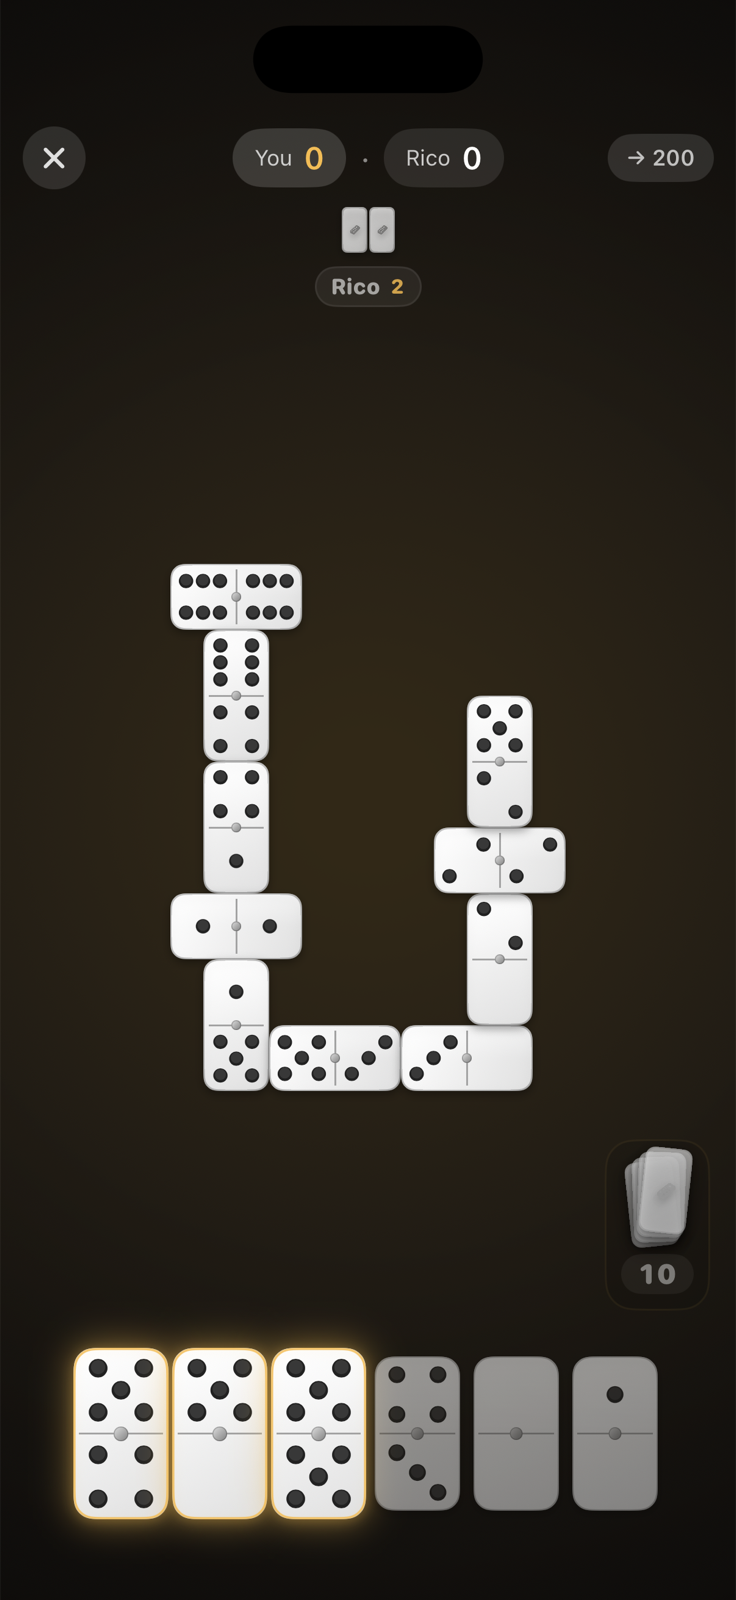
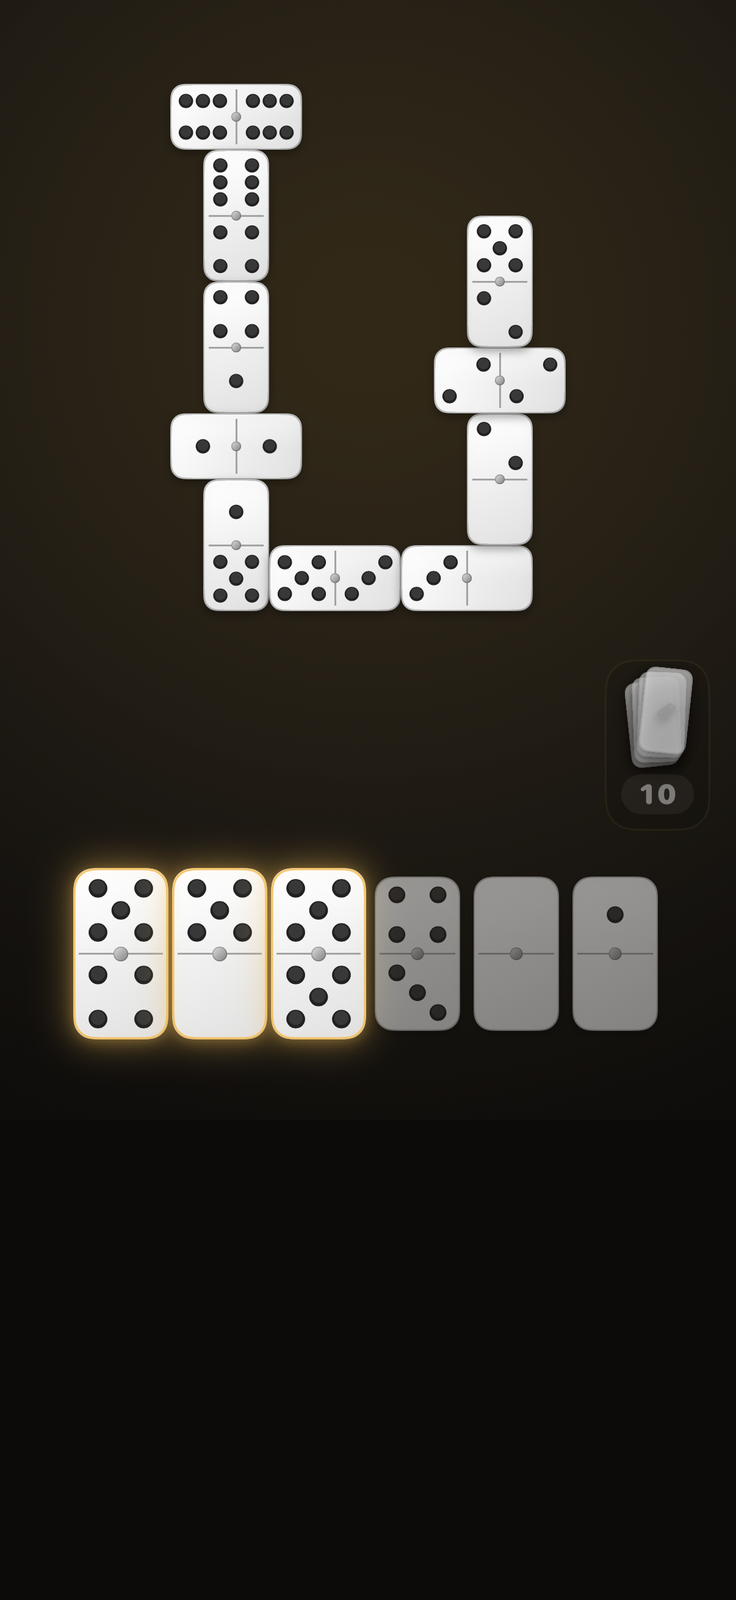
home: phones anchored under the headlines; the game shot's tiles arrive sooner
On a laptop-height window the panes shrink and the phones rose into the
words; they are anchored from the top now and only ever extend down. The
game screenshot's content is shifted up 30% inside its canvas so the cropped
phone shows tiles and the lit rack, not empty felt.

diff --git a/index.html b/index.html
@@ -14,25 +14,25 @@
     <meta property="og:title" content="Magic Domino™ — Keep the score. Play the game.">
     <meta property="og:description" content="The dominoes scorekeeper trusted at real tables, and a real domino game with the rules you grew up with. Two rooms, one app.">
     <meta property="og:url" content="https://magicdomino.com/">
-    <meta property="og:image" content="https://magicdomino.com/social-card.png?v=20260930d">
+    <meta property="og:image" content="https://magicdomino.com/social-card.png?v=20260930e">
     <meta property="og:image:width" content="1024">
     <meta property="og:image:height" content="500">
     <meta name="twitter:card" content="summary_large_image">
     <meta name="twitter:title" content="Magic Domino™ — Keep the score. Play the game.">
     <meta name="twitter:description" content="The dominoes scorekeeper trusted at real tables, and a real domino game with the rules you grew up with. Two rooms, one app.">
-    <meta name="twitter:image" content="https://magicdomino.com/social-card.png?v=20260930d">
+    <meta name="twitter:image" content="https://magicdomino.com/social-card.png?v=20260930e">
 
     <link rel="preconnect" href="https://fonts.googleapis.com">
     <link rel="preconnect" href="https://fonts.gstatic.com" crossorigin>
     <link href="https://fonts.googleapis.com/css2?family=Fraunces:ital,opsz,wght@0,9..144,400;0,9..144,500;0,9..144,600;0,9..144,700;0,9..144,800;1,9..144,500&family=Inter:wght@400;500;600;700&display=swap" rel="stylesheet">
-    <link rel="stylesheet" href="site.css?v=20260930d">
-    <script src="/i18n.js?v=20260930d"></script>
+    <link rel="stylesheet" href="site.css?v=20260930e">
+    <script src="/i18n.js?v=20260930e"></script>
 </head>
 <body>
 
     <nav class="navbar" id="navbar">
         <a href="index.html" class="navbar-brand">
-            <img src="app-icon.png?v=20260930d" alt="" class="brand-icon"><span>Magic Domino<span class="brand-tm">™</span></span>
+            <img src="app-icon.png?v=20260930e" alt="" class="brand-icon"><span>Magic Domino<span class="brand-tm">™</span></span>
         </a>
         <button class="mobile-menu-toggle" onclick="toggleMenu()" aria-label="Menu" data-i18n-attr="aria-label:a11y.menu">☰</button>
         <div class="navbar-links" id="navbarLinks">
@@ -60,7 +60,7 @@
                     <a class="pane-link" href="#score"><span data-i18n="hero.scoreLink">See the scorekeeper</span> <span aria-hidden="true">↓</span></a>
                 </div>
                 <!-- A real phone, showing the real scoreboard, rising out of the pane. -->
-                <figure class="mock mock-score" aria-hidden="true"><img src="hero-score.png?v=20260930d" alt="" width="736" height="1600"></figure>
+                <figure class="mock mock-score" aria-hidden="true"><img src="hero-score.png?v=20260930e" alt="" width="736" height="1600"></figure>
             </div>
 
             <div class="pane pane-play world-play">
@@ -71,11 +71,11 @@
                     <a class="pane-link" href="#play"><span data-i18n="hero.playLink">See the game</span> <span aria-hidden="true">↓</span></a>
                 </div>
                 <!-- A real phone, showing the table mid-hand. -->
-                <figure class="mock mock-play" aria-hidden="true"><img src="hero-play.png?v=20260930d" alt="" width="736" height="1600"></figure>
+                <figure class="mock mock-play" aria-hidden="true"><img src="hero-play.png?v=20260930e" alt="" width="736" height="1600"></figure>
             </div>
 
             <div class="hinge" aria-hidden="true">
-                <img src="app-icon.png?v=20260930d" alt="" class="hinge-icon">
+                <img src="app-icon.png?v=20260930e" alt="" class="hinge-icon">
                 <span class="hinge-label" data-i18n="hero.oneApp">One app</span>
             </div>
         </div>
@@ -163,19 +163,19 @@
                 <button class="scroll-arrow scroll-arrow-left" aria-label="Previous screenshots" data-i18n-attr="aria-label:a11y.prevShots" onclick="scrollStrip('scoreStrip', -1)">‹</button>
                 <div class="strip" id="scoreStrip">
                     <figure class="shot"><div class="shot-frame">
-                        <img src="shot-1.png?v=20260930d" alt="AI score counting with the camera" data-i18n-attr="alt:alt.shot1" data-missing onload="shotLoaded(this)" onerror="this.remove()">
+                        <img src="shot-1.png?v=20260930e" alt="AI score counting with the camera" data-i18n-attr="alt:alt.shot1" data-missing onload="shotLoaded(this)" onerror="this.remove()">
                         <div class="ph"><div><div class="ph-board"><span class="bar hi"></span><span class="bar"></span><span class="bar g"></span><span class="bar"></span></div><div class="ph-title" data-i18n="alt.shot1">AI score counting</div></div></div>
                     </div></figure>
                     <figure class="shot"><div class="shot-frame">
-                        <img src="shot-2.png?v=20260930d" alt="Scoreboard view" data-i18n-attr="alt:alt.shot2" data-missing onload="shotLoaded(this)" onerror="this.remove()">
+                        <img src="shot-2.png?v=20260930e" alt="Scoreboard view" data-i18n-attr="alt:alt.shot2" data-missing onload="shotLoaded(this)" onerror="this.remove()">
                         <div class="ph"><div><div class="ph-board"><span class="bar hi"></span><span class="bar"></span><span class="bar g"></span><span class="bar"></span></div><div class="ph-title" data-i18n="alt.shot2">Scoreboard</div></div></div>
                     </div></figure>
                     <figure class="shot"><div class="shot-frame">
-                        <img src="shot-3.png?v=20260930d" alt="Tournament bracket" data-i18n-attr="alt:alt.shot3" data-missing onload="shotLoaded(this)" onerror="this.remove()">
+                        <img src="shot-3.png?v=20260930e" alt="Tournament bracket" data-i18n-attr="alt:alt.shot3" data-missing onload="shotLoaded(this)" onerror="this.remove()">
                         <div class="ph"><div><div class="ph-board"><span class="bar hi"></span><span class="bar"></span><span class="bar g"></span><span class="bar"></span></div><div class="ph-title" data-i18n="alt.shot3">Tournament bracket</div></div></div>
                     </div></figure>
                     <figure class="shot"><div class="shot-frame">
-                        <img src="shot-4.png?v=20260930d" alt="Game history" data-i18n-attr="alt:alt.shot4" data-missing onload="shotLoaded(this)" onerror="this.remove()">
+                        <img src="shot-4.png?v=20260930e" alt="Game history" data-i18n-attr="alt:alt.shot4" data-missing onload="shotLoaded(this)" onerror="this.remove()">
                         <div class="ph"><div><div class="ph-board"><span class="bar hi"></span><span class="bar"></span><span class="bar g"></span><span class="bar"></span></div><div class="ph-title" data-i18n="alt.shot4">Game history</div></div></div>
                     </div></figure>
                 </div>
@@ -262,27 +262,27 @@
                 <button class="scroll-arrow scroll-arrow-left" aria-label="Previous screenshots" data-i18n-attr="aria-label:a11y.prevShots" onclick="scrollStrip('playStrip', -1)">‹</button>
                 <div class="strip" id="playStrip">
                     <figure class="shot"><div class="shot-frame">
-                        <img src="play-shot-1.png?v=20260930d" alt="The table" data-i18n-attr="alt:pshots.s1" data-missing onload="shotLoaded(this)" onerror="this.remove()">
+                        <img src="play-shot-1.png?v=20260930e" alt="The table" data-i18n-attr="alt:pshots.s1" data-missing onload="shotLoaded(this)" onerror="this.remove()">
                         <div class="ph"><div><div class="ph-mini"><div class="tile h"><div class="face p6"><i></i><i></i><i></i><i></i><i></i><i></i><i></i><i></i><i></i></div><div class="face p3"><i></i><i></i><i></i><i></i><i></i><i></i><i></i><i></i><i></i></div></div><div class="tile h just"><div class="face p3"><i></i><i></i><i></i><i></i><i></i><i></i><i></i><i></i><i></i></div><div class="face p1"><i></i><i></i><i></i><i></i><i></i><i></i><i></i><i></i><i></i></div></div></div><div class="ph-title" data-i18n="pshots.s1">The table</div></div></div>
                     </div></figure>
                     <figure class="shot"><div class="shot-frame">
-                        <img src="play-shot-2.png?v=20260930d" alt="The front door" data-i18n-attr="alt:pshots.s5" data-missing onload="shotLoaded(this)" onerror="this.remove()">
+                        <img src="play-shot-2.png?v=20260930e" alt="The front door" data-i18n-attr="alt:pshots.s5" data-missing onload="shotLoaded(this)" onerror="this.remove()">
                         <div class="ph"><div><div class="ph-mini"><div class="tile "><div class="face p6"><i></i><i></i><i></i><i></i><i></i><i></i><i></i><i></i><i></i></div><div class="face p6"><i></i><i></i><i></i><i></i><i></i><i></i><i></i><i></i><i></i></div></div><div class="tile "><div class="face p5"><i></i><i></i><i></i><i></i><i></i><i></i><i></i><i></i><i></i></div><div class="face p5"><i></i><i></i><i></i><i></i><i></i><i></i><i></i><i></i><i></i></div></div><div class="tile "><div class="face p4"><i></i><i></i><i></i><i></i><i></i><i></i><i></i><i></i><i></i></div><div class="face p4"><i></i><i></i><i></i><i></i><i></i><i></i><i></i><i></i><i></i></div></div></div><div class="ph-title" data-i18n="pshots.s5">The front door</div></div></div>
                     </div></figure>
                     <figure class="shot"><div class="shot-frame">
-                        <img src="play-shot-3.png?v=20260930d" alt="Pick your game" data-i18n-attr="alt:pshots.s2" data-missing onload="shotLoaded(this)" onerror="this.remove()">
+                        <img src="play-shot-3.png?v=20260930e" alt="Pick your game" data-i18n-attr="alt:pshots.s2" data-missing onload="shotLoaded(this)" onerror="this.remove()">
                         <div class="ph"><div><div class="ph-mini"><div class="tile "><div class="face p6"><i></i><i></i><i></i><i></i><i></i><i></i><i></i><i></i><i></i></div><div class="face p6"><i></i><i></i><i></i><i></i><i></i><i></i><i></i><i></i><i></i></div></div><div class="tile "><div class="face p5"><i></i><i></i><i></i><i></i><i></i><i></i><i></i><i></i><i></i></div><div class="face p5"><i></i><i></i><i></i><i></i><i></i><i></i><i></i><i></i><i></i></div></div><div class="tile "><div class="face p4"><i></i><i></i><i></i><i></i><i></i><i></i><i></i><i></i><i></i></div><div class="face p4"><i></i><i></i><i></i><i></i><i></i><i></i><i></i><i></i><i></i></div></div></div><div class="ph-title" data-i18n="pshots.s2">Pick your game</div></div></div>
                     </div></figure>
                     <figure class="shot"><div class="shot-frame">
-                        <img src="play-shot-4.png?v=20260930d" alt="Play together" data-i18n-attr="alt:pshots.s3" data-missing onload="shotLoaded(this)" onerror="this.remove()">
+                        <img src="play-shot-4.png?v=20260930e" alt="Play together" data-i18n-attr="alt:pshots.s3" data-missing onload="shotLoaded(this)" onerror="this.remove()">
                         <div class="ph"><div><div class="ph-mini"><div class="tile back"></div><div class="tile back"></div><div class="tile back"></div><div class="tile back"></div></div><div class="ph-title" data-i18n="pshots.s3">Play together</div></div></div>
                     </div></figure>
                     <figure class="shot"><div class="shot-frame">
-                        <img src="play-shot-5.png?v=20260930d" alt="The bracket" data-i18n-attr="alt:pshots.s4" data-missing onload="shotLoaded(this)" onerror="this.remove()">
+                        <img src="play-shot-5.png?v=20260930e" alt="The bracket" data-i18n-attr="alt:pshots.s4" data-missing onload="shotLoaded(this)" onerror="this.remove()">
                         <div class="ph"><div><div class="ph-mini"><div class="tile h"><div class="face p1"><i></i><i></i><i></i><i></i><i></i><i></i><i></i><i></i><i></i></div><div class="face p1"><i></i><i></i><i></i><i></i><i></i><i></i><i></i><i></i><i></i></div></div></div><div class="ph-title" data-i18n="pshots.s4">The bracket</div></div></div>
                     </div></figure>
                     <figure class="shot"><div class="shot-frame">
-                        <img src="play-shot-6.png?v=20260930d" alt="The hand is over" data-i18n-attr="alt:pshots.s6" data-missing onload="shotLoaded(this)" onerror="this.remove()">
+                        <img src="play-shot-6.png?v=20260930e" alt="The hand is over" data-i18n-attr="alt:pshots.s6" data-missing onload="shotLoaded(this)" onerror="this.remove()">
                         <div class="ph"><div><div class="ph-mini"><div class="tile h"><div class="face p0"><i></i><i></i><i></i><i></i><i></i><i></i><i></i><i></i><i></i></div><div class="face p0"><i></i><i></i><i></i><i></i><i></i><i></i><i></i><i></i><i></i></div></div></div><div class="ph-title" data-i18n="pshots.s6">The hand is over</div></div></div>
                     </div></figure>
                 </div>
@@ -306,7 +306,7 @@
                     <span class="tag" data-i18n="duo.tag">iPhone Duo · opened</span>
                 </div>
                 <figure class="duo-frame">
-                    <img src="duo-split.png?v=20260930d" alt="Magic Domino on an opened iPhone Duo: the scoreboard on the left half, a domino hand in play on the right" width="1800" height="1266" loading="lazy">
+                    <img src="duo-split.png?v=20260930e" alt="Magic Domino on an opened iPhone Duo: the scoreboard on the left half, a domino hand in play on the right" width="1800" height="1266" loading="lazy">
                 </figure>
             </div>
         </div>
@@ -392,7 +392,7 @@
 
     <footer>
         <a href="#top" class="footer-brand">
-            <img src="app-icon.png?v=20260930d" alt="" class="brand-icon"><span>Magic Domino<span class="brand-tm">™</span></span>
+            <img src="app-icon.png?v=20260930e" alt="" class="brand-icon"><span>Magic Domino<span class="brand-tm">™</span></span>
         </a>
         <div class="store-row footer-store">
             <a href="https://apps.apple.com/us/app/magic-domino-ai-scorekeeper/id6747228055" class="store-badge" aria-label="Download on the App Store">

diff --git a/site.css b/site.css
@@ -270,8 +270,10 @@ section { padding: 6rem 0; }
 /* ---- The phones. Real screenshots in a bezel, rising out of the bottom of each
    pane and leaning toward the seam, each with its world's glow behind it. ---- */
 .mock {
-    position: absolute; z-index: 1; bottom: -24%; margin: 0;
-    width: clamp(230px, 21vw, 300px); aspect-ratio: 736 / 1600;
+    /* Anchored from the TOP, under the headline, so a short window never lifts a
+       phone into the words: it extends down and the pane's edge crops it. */
+    position: absolute; z-index: 1; top: max(300px, 40%); bottom: auto; margin: 0;
+    width: clamp(220px, 20vw, 290px); aspect-ratio: 736 / 1600;
     padding: 2.6%; border-radius: 15% / 6.9%;
     background: linear-gradient(160deg, #2a2a2e, #050506);
     box-shadow: 0 50px 100px rgba(0, 0, 0, 0.5), 0 0 0 1px rgba(255, 255, 255, 0.12), inset 0 0 0 1px rgba(255, 255, 255, 0.06);
@@ -282,9 +284,9 @@ section { padding: 6rem 0; }
     content: ""; position: absolute; left: -30%; right: -30%; top: -10%; bottom: 10%; z-index: -1;
     border-radius: 50%; filter: blur(46px); opacity: 0.75;
 }
-.mock-score { right: clamp(2.5rem, 7vw, 6.5rem); rotate: 3deg; transform-origin: bottom center; }
+.mock-score { right: clamp(2rem, 5vw, 4.5rem); rotate: 3deg; transform-origin: top center; }
 .mock-score::before { background: radial-gradient(closest-side, rgba(61, 149, 239, 0.55), transparent); }
-.mock-play  { left: clamp(2.5rem, 7vw, 6.5rem); rotate: -3deg; transform-origin: bottom center; animation-delay: 0.15s, 1.25s;
+.mock-play  { left: clamp(2rem, 5vw, 4.5rem); rotate: -3deg; transform-origin: top center; animation-delay: 0.15s, 1.25s;
     /* A lit rim and a lighter bezel, or a dark phone on dark felt reads as a hole. */
     background: linear-gradient(160deg, #4a443b, #1a1714);
     box-shadow: 0 50px 100px rgba(0, 0, 0, 0.6), 0 0 0 1.5px rgba(247, 245, 238, 0.28), 0 0 40px rgba(242, 189, 87, 0.18), inset 0 0 0 1px rgba(255, 255, 255, 0.08); }
@@ -625,7 +627,7 @@ footer {
     .pane-play .pane-inner { margin-left: auto; text-align: right; justify-items: end; }
     [dir="rtl"] .pane-play .pane-inner { margin-left: 0; margin-right: auto; text-align: left; justify-items: start; }
     [dir="rtl"] .pane-score .pane-inner { text-align: right; justify-items: end; margin-left: auto; }
-    .mock { width: clamp(144px, 38vw, 164px); bottom: -14%; padding: 3%; }
+    .mock { width: clamp(144px, 38vw, 164px); top: auto; bottom: -14%; padding: 3%; }
     .mock-score { right: 1.1rem; rotate: 0deg; }
     .mock-play { left: 1.1rem; rotate: 0deg; }
     [dir="rtl"] .mock-score { right: auto; left: 1.1rem; }

diff --git a/privacy.html b/privacy.html
@@ -9,13 +9,13 @@
     <link rel="preconnect" href="https://fonts.googleapis.com">
     <link rel="preconnect" href="https://fonts.gstatic.com" crossorigin>
     <link href="https://fonts.googleapis.com/css2?family=Fraunces:ital,opsz,wght@0,9..144,400;0,9..144,500;0,9..144,600;0,9..144,700;1,9..144,500&family=Inter:wght@400;500;600;700&display=swap" rel="stylesheet">
-    <link rel="stylesheet" href="site.css?v=20260930d">
-    <script src="/i18n.js?v=20260930d"></script>
+    <link rel="stylesheet" href="site.css?v=20260930e">
+    <script src="/i18n.js?v=20260930e"></script>
 </head>
 <body>
     <nav class="navbar">
         <a href="index.html" class="navbar-brand">
-            <img src="app-icon.png?v=20260930d" alt="" class="brand-icon"><span>Magic Domino<span class="brand-tm">™</span></span>
+            <img src="app-icon.png?v=20260930e" alt="" class="brand-icon"><span>Magic Domino<span class="brand-tm">™</span></span>
         </a>
         <button class="mobile-menu-toggle" onclick="toggleMenu()" aria-label="Menu" data-i18n-attr="aria-label:a11y.menu">☰</button>
         <div class="navbar-links" id="navbarLinks">
@@ -136,7 +136,7 @@
 
     <footer>
         <a href="index.html" class="footer-brand">
-            <img src="app-icon.png?v=20260930d" alt="" class="brand-icon"><span>Magic Domino<span class="brand-tm">™</span></span>
+            <img src="app-icon.png?v=20260930e" alt="" class="brand-icon"><span>Magic Domino<span class="brand-tm">™</span></span>
         </a>
         <div class="footer-links">
             <a href="index.html#score" data-i18n="nav.score">Scorekeeper</a>

diff --git a/support.html b/support.html
@@ -9,13 +9,13 @@
     <link rel="preconnect" href="https://fonts.googleapis.com">
     <link rel="preconnect" href="https://fonts.gstatic.com" crossorigin>
     <link href="https://fonts.googleapis.com/css2?family=Fraunces:ital,opsz,wght@0,9..144,400;0,9..144,500;0,9..144,600;0,9..144,700;1,9..144,500&family=Inter:wght@400;500;600;700&display=swap" rel="stylesheet">
-    <link rel="stylesheet" href="site.css?v=20260930d">
-    <script src="/i18n.js?v=20260930d"></script>
+    <link rel="stylesheet" href="site.css?v=20260930e">
+    <script src="/i18n.js?v=20260930e"></script>
 </head>
 <body>
     <nav class="navbar">
         <a href="index.html" class="navbar-brand">
-            <img src="app-icon.png?v=20260930d" alt="" class="brand-icon"><span>Magic Domino<span class="brand-tm">™</span></span>
+            <img src="app-icon.png?v=20260930e" alt="" class="brand-icon"><span>Magic Domino<span class="brand-tm">™</span></span>
         </a>
         <button class="mobile-menu-toggle" onclick="toggleMenu()" aria-label="Menu" data-i18n-attr="aria-label:a11y.menu">☰</button>
         <div class="navbar-links" id="navbarLinks">
@@ -248,7 +248,7 @@
 
     <footer>
         <a href="index.html" class="footer-brand">
-            <img src="app-icon.png?v=20260930d" alt="" class="brand-icon"><span>Magic Domino<span class="brand-tm">™</span></span>
+            <img src="app-icon.png?v=20260930e" alt="" class="brand-icon"><span>Magic Domino<span class="brand-tm">™</span></span>
         </a>
         <div class="footer-links">
             <a href="index.html#score" data-i18n="nav.score">Scorekeeper</a>

diff --git a/terms.html b/terms.html
@@ -9,13 +9,13 @@
     <link rel="preconnect" href="https://fonts.googleapis.com">
     <link rel="preconnect" href="https://fonts.gstatic.com" crossorigin>
     <link href="https://fonts.googleapis.com/css2?family=Fraunces:ital,opsz,wght@0,9..144,400;0,9..144,500;0,9..144,600;0,9..144,700;1,9..144,500&family=Inter:wght@400;500;600;700&display=swap" rel="stylesheet">
-    <link rel="stylesheet" href="site.css?v=20260930d">
-    <script src="/i18n.js?v=20260930d"></script>
+    <link rel="stylesheet" href="site.css?v=20260930e">
+    <script src="/i18n.js?v=20260930e"></script>
 </head>
 <body>
     <nav class="navbar">
         <a href="index.html" class="navbar-brand">
-            <img src="app-icon.png?v=20260930d" alt="" class="brand-icon"><span>Magic Domino<span class="brand-tm">™</span></span>
+            <img src="app-icon.png?v=20260930e" alt="" class="brand-icon"><span>Magic Domino<span class="brand-tm">™</span></span>
         </a>
         <button class="mobile-menu-toggle" onclick="toggleMenu()" aria-label="Menu" data-i18n-attr="aria-label:a11y.menu">☰</button>
         <div class="navbar-links" id="navbarLinks">
@@ -176,7 +176,7 @@
 
     <footer>
         <a href="index.html" class="footer-brand">
-            <img src="app-icon.png?v=20260930d" alt="" class="brand-icon"><span>Magic Domino<span class="brand-tm">™</span></span>
+            <img src="app-icon.png?v=20260930e" alt="" class="brand-icon"><span>Magic Domino<span class="brand-tm">™</span></span>
         </a>
         <div class="footer-links">
             <a href="index.html#score" data-i18n="nav.score">Scorekeeper</a>

diff --git a/404.html b/404.html
@@ -217,7 +217,7 @@
         .store-badge img { height: 44px; }
     }
 </style>
-    <script src="/i18n.js?v=20260930d"></script>
+    <script src="/i18n.js?v=20260930e"></script>
 </head>
 <body>
 <div class="dot-bg"></div>

diff --git a/SCREENSHOTS.md b/SCREENSHOTS.md
@@ -15,7 +15,9 @@ may be cropped at the top and bottom.
 split hero: the scoreboard mid-game (Los Tigres 165 · Las Águilas 130, light
 mode) and the table mid-hand. Captured 2026-09-30 on the "MD Site Shots"
 simulator; the scoreboard by naming the teams and adding six rounds by hand, the
-table from the same capture as `play-shot-1.png`. The bezel, tilt, glow and
+table from the same capture as `play-shot-1.png`, with its content shifted UP by
+30% inside a felt-coloured canvas (a short window crops the phone before the
+tiles would otherwise appear; PIL, see the git log). The bezel, tilt, glow and
 entrance are CSS (`.mock` in site.css); drop a new PNG under the same name and
 bump the `?v=` to replace either.
 
